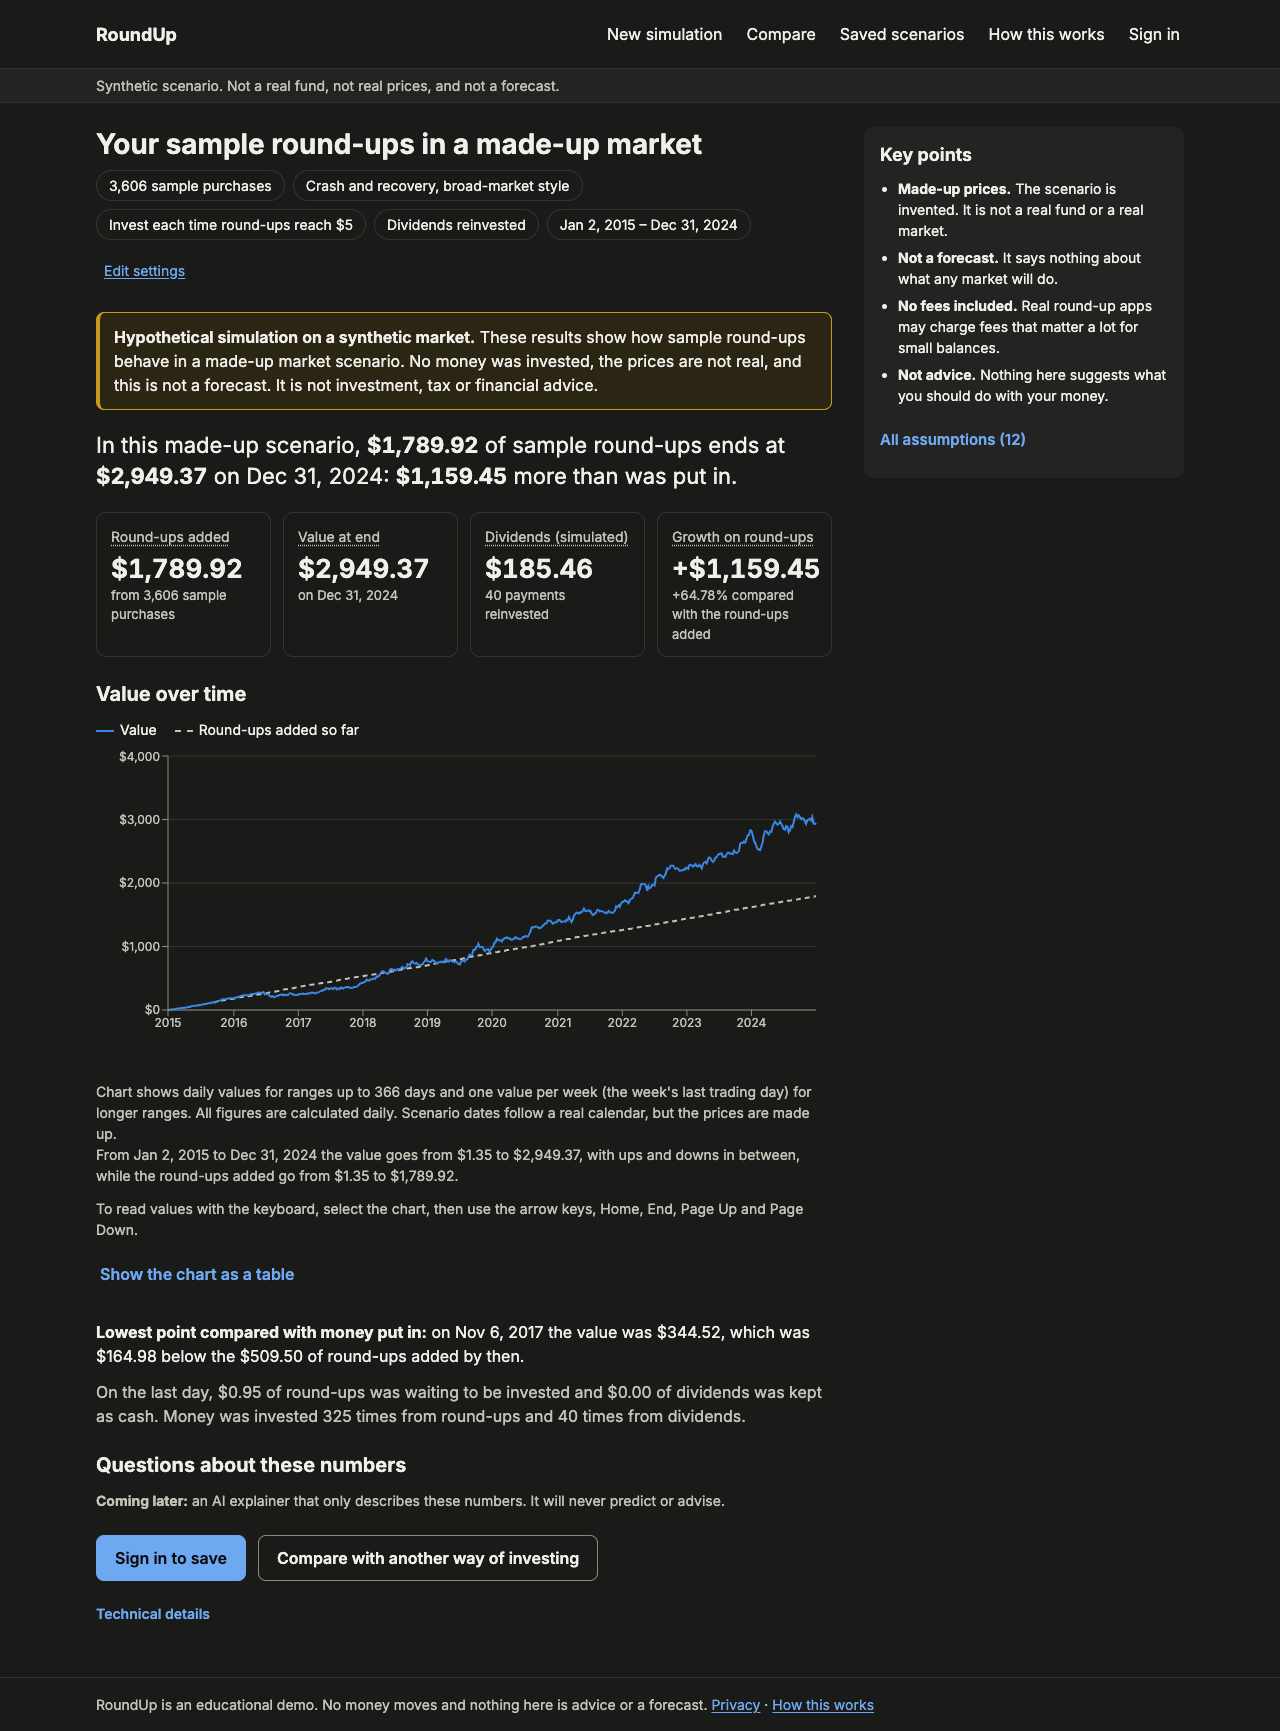
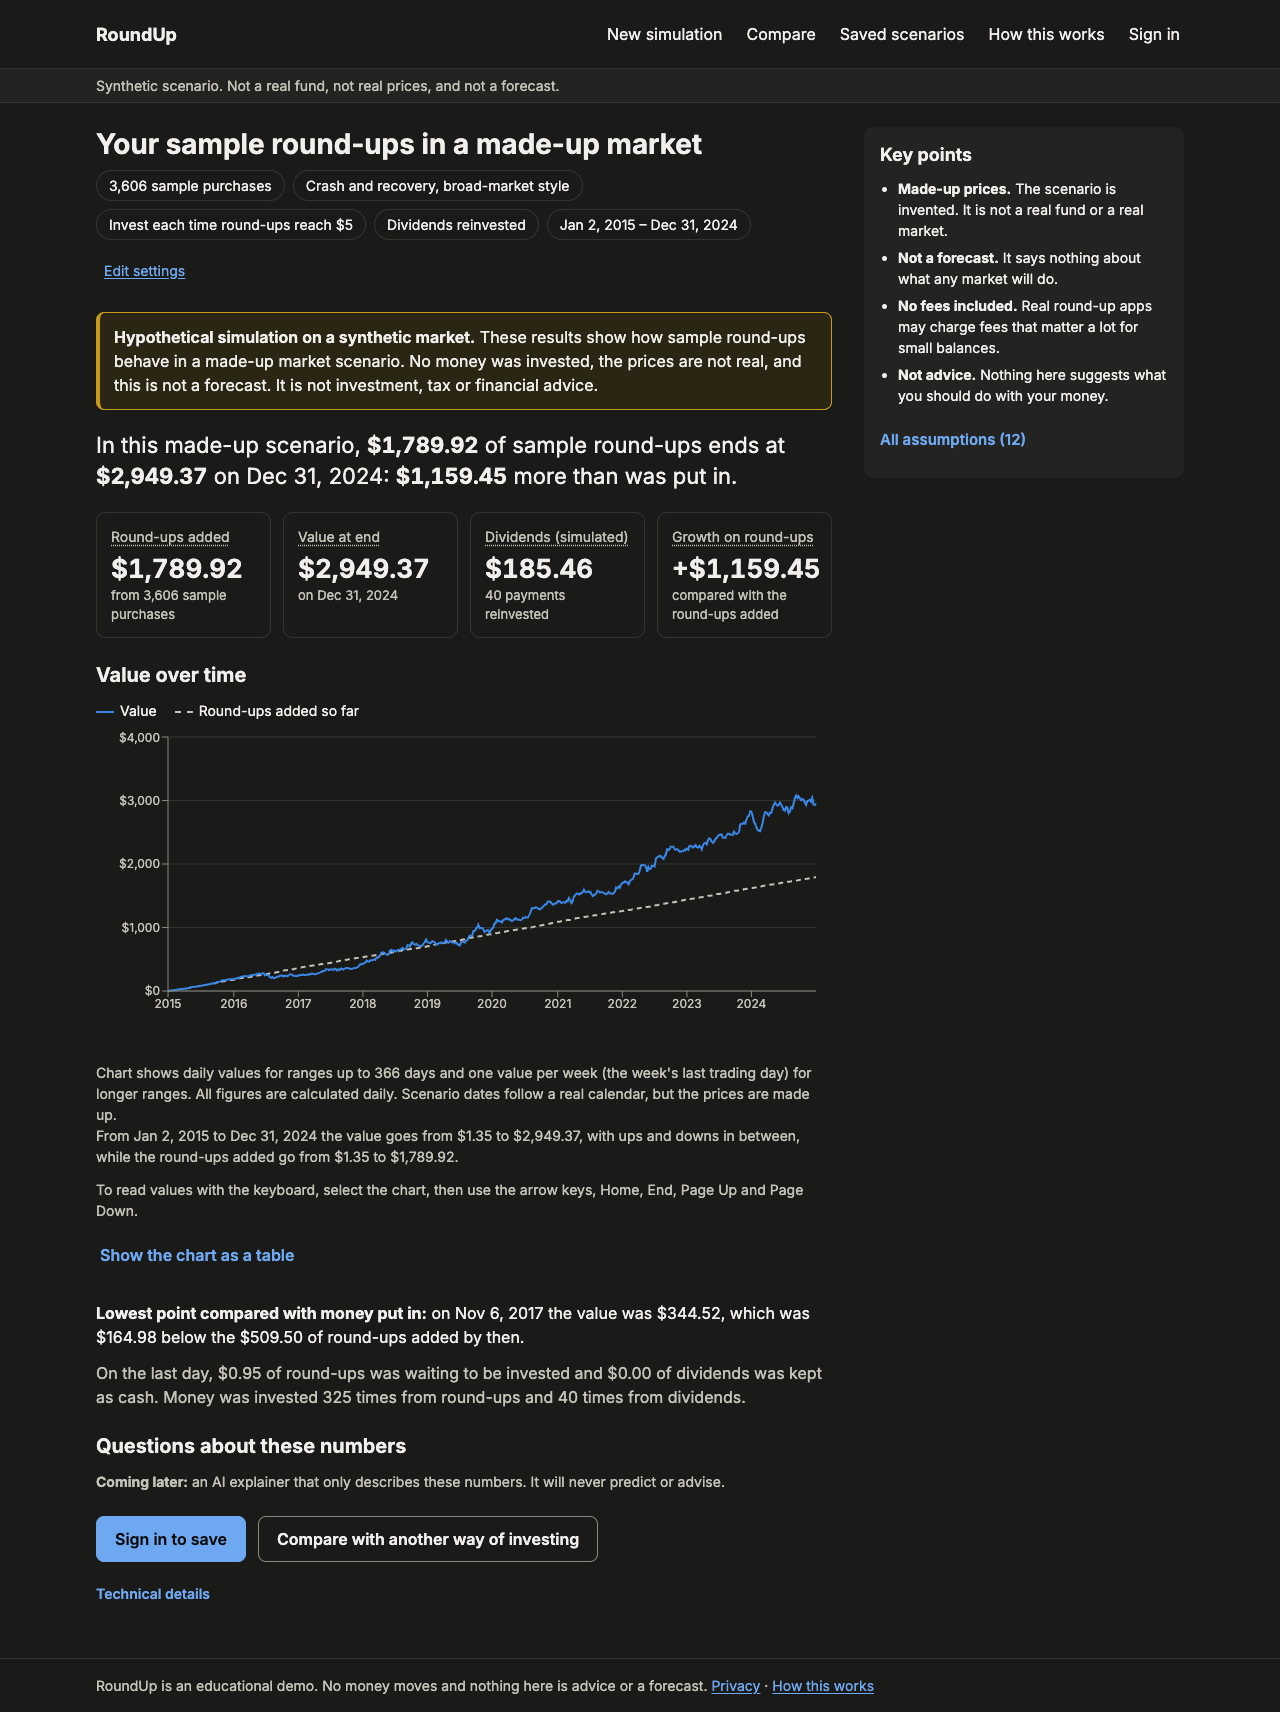
Web: Content-Security-Policy, build-time inlined sign-in mode, deployed-preview test suite
CSP built from the configured API and Supabase addresses (tested); the local-test
sign-in code is dropped from deployed bundles by inlining NEXT_PUBLIC_AUTH_MODE at
build. Separate Playwright config and suite for deployed previews (no sign-in, so
no email): smoke, bundle check, axe in light/dark/mobile, page weight. Screenshots
refreshed (growth tile no longer shows a percentage).

diff --git a/web/e2e-deployed/deployed.spec.ts b/web/e2e-deployed/deployed.spec.ts
@@ -1,0 +1,137 @@
+import fs from "node:fs";
+import os from "node:os";
+import path from "node:path";
+import AxeBuilder from "@axe-core/playwright";
+import { expect, test, type Page } from "@playwright/test";
+
+const WEB = process.env.DEPLOY_WEB!, API = process.env.DEPLOY_API!;
+const report: Record<string, unknown> = {};
+
+async function runSample(page: Page, opts: { start?: string; end?: string } = {}) {
+  await page.goto("/");
+  await page.getByRole("radio", { name: /Crash and recovery/ }).check();
+  if (opts.start) await page.getByLabel("Start date").fill(opts.start);
+  if (opts.end) await page.getByLabel("End date").fill(opts.end);
+  await page.getByRole("button", { name: "Run simulation" }).click();
+  await page.waitForURL("**/results");
+  await page.getByText("In this made-up scenario").waitFor();
+}
+
+test("smoke: simulate, compare, upload a CSV, saved page signed out (no sign-in attempted)", async ({ page }) => {
+  const consoleErrors: string[] = [];
+  page.on("console", (m) => { if (m.type() === "error") consoleErrors.push(m.text()); });
+  await runSample(page);
+  await expect(page.locator(".label-strip")).toContainText("Synthetic scenario. Not a real fund");
+  await expect(page.getByText("Made-up prices.")).toBeVisible();
+  await expect(page.locator(".recharts-wrapper").first()).toBeVisible();
+  await expect(page.locator("body")).not.toContainText(/\d%\s+compared with/);      // owner decision: no percentage
+  await page.getByRole("link", { name: "Compare with another way of investing" }).click();
+  await page.getByRole("button", { name: "Compare" }).click();
+  await expect(page.getByRole("rowheader", { name: "Growth on round-ups" })).toBeVisible();
+
+  const file = path.join(os.tmpdir(), `roundup-deployed-${Date.now()}.csv`);
+  fs.writeFileSync(file, "Date,Amount,Description\n2016-03-01,4.37,SECRET CAFE\n2016-03-02,12.10,BOOKS\n2016-03-03,-20.00,REFUND\n");
+  await page.goto("/");
+  await page.getByRole("radio", { name: /Upload a CSV/ }).check();
+  await page.getByLabel("CSV file (up to 2 MB)").setInputFiles(file);
+  await page.getByLabel("How are amounts signed?").selectOption("debits_positive");
+  await page.getByRole("button", { name: "Check this file" }).click();
+  await expect(page.getByRole("status")).toContainText("3 of 3 rows can be used.");
+  await page.getByLabel("Start date").fill("2016-01-04"); await page.getByLabel("End date").fill("2016-12-30");
+  await page.getByRole("button", { name: "Run simulation" }).click();
+  await page.waitForURL("**/results");
+  await expect(page.locator("#headline")).toContainText("$1.53");
+  await expect(page.locator("body")).not.toContainText("SECRET CAFE");
+  fs.unlinkSync(file);
+
+  await page.goto("/saved");
+  await expect(page.getByRole("heading", { name: "Sign in to see saved scenarios" })).toBeVisible();   // not submitted
+  expect(consoleErrors.filter((e) => !/favicon/i.test(e))).toEqual([]);
+});
+
+test("the deployed build points at the right services (no localhost, no stand-in)", async ({ page }) => {
+  const urls = new Set<string>();
+  page.on("response", (r) => { if (r.url().includes("/_next/static/") && r.url().endsWith(".js")) urls.add(r.url()); });
+  await page.goto("/"); await page.waitForLoadState("networkidle");
+  const js = (await Promise.all([...urls].map(async (u) => (await page.request.get(u)).text()))).join("\n");
+  expect(js).toContain(API);
+  expect(js).not.toContain("127.0.0.1:8000");        // the app's local fallback API address (supabase-js itself mentions localhost)
+  expect(js).not.toContain("NEXT_PUBLIC_AUTH_MODE");
+  expect(js).not.toMatch(/\/standin\/token/);         // the test sign-in stand-in must not be in a deployed build
+  expect(js).toContain("rauwjvyaluuxivnktxtk.supabase.co");
+});
+
+const MODES = {
+  light: { viewport: { width: 1280, height: 900 }, colorScheme: "light" as const },
+  dark: { viewport: { width: 1280, height: 900 }, colorScheme: "dark" as const },
+  mobile: { viewport: { width: 390, height: 844 }, colorScheme: "light" as const, isMobile: true, hasTouch: true, deviceScaleFactor: 2 },
+};
+async function check(page: Page, name: string, mode: string) {
+  await page.waitForLoadState("networkidle");
+  await page.mouse.move(0, 0);
+  const res = await new AxeBuilder({ page }).withTags(["wcag2a", "wcag2aa", "wcag21a", "wcag21aa", "wcag22aa", "best-practice"]).analyze();
+  const v = res.violations.map((x) => ({ id: x.id, impact: x.impact, nodes: x.nodes.length, help: x.help }));
+  report[`${name}/${mode}`] = { violations: v, passes: res.passes.length };
+  await page.screenshot({ path: `screenshots/deployed/${name}-${mode}.png`, fullPage: true });
+  expect(v, `${name}/${mode}`).toEqual([]);
+}
+for (const [mode, opts] of Object.entries(MODES)) {
+  test.describe(mode, () => {
+    test.use(opts);
+    test(`axe on the deployed screens (${mode})`, async ({ page }) => {
+      await page.goto("/"); await check(page, "setup", mode);
+      await runSample(page); await check(page, "results", mode);
+      await page.getByRole("link", { name: "Compare with another way of investing" }).click();
+      await page.getByRole("button", { name: "Compare" }).click();
+      await page.getByRole("rowheader", { name: "Growth on round-ups" }).waitFor();
+      await check(page, "compare", mode);
+      await page.goto("/saved"); await page.getByLabel("Email").waitFor(); await check(page, "saved-signed-out", mode);
+      await page.goto("/how"); await check(page, "how", mode);
+      await page.goto("/privacy"); await check(page, "privacy", mode);
+    });
+  });
+}
+
+test("page weight and response sizes on Vercel", async ({ page, request }) => {
+  const out: Record<string, unknown> = {};
+  const bytes: Record<string, number> = {}; let total = 0; let wire = 0;
+  page.on("response", async (r) => {
+    try {
+      const b = (await r.body()).length; const type = r.request().resourceType();
+      bytes[type] = (bytes[type] ?? 0) + b; total += b; wire += (await r.request().sizes()).responseBodySize;
+    } catch { /* no body */ }
+  });
+  const t0 = Date.now();
+  await page.goto("/", { waitUntil: "networkidle" });
+  out.setup_first_load = { ms: Date.now() - t0, total_bytes: total, transferred_bytes: wire, by_type: { ...bytes } };
+  const full = { scenario_id: "crash-and-recovery", style: "broad", start: "2012-01-03", end: "2026-09-30",
+    generate: { seed: 42, max_per_day: 3 }, strategy: "next_session", reinvest: true };
+  for (const buys of ["none", "all"] as const) {
+    const runs: number[] = []; let size = 0, points = 0;
+    for (let i = 0; i < 5; i++) {
+      const t = Date.now();
+      const r = await request.post(`${API}/v1/simulate`, { data: { ...full, buys } });
+      const body = await r.body(); runs.push(Date.now() - t); size = body.length;
+      points = JSON.parse(body.toString()).result.series.length;
+      expect(r.status()).toBe(200);
+    }
+    out[`api_simulate_full_range_buys_${buys}`] = { bytes: size, ms_each_of_5: runs, series_points: points };
+  }
+  const cruns: number[] = []; let csize = 0;
+  for (let i = 0; i < 5; i++) {
+    const t = Date.now();
+    const rc = await request.post(`${API}/v1/compare`, { data: { ...full, strategy: undefined, reinvest: undefined, buys: "none",
+      a: { strategy: "next_session", reinvest: true }, b: { strategy: "monthly", reinvest: false } } });
+    csize = (await rc.body()).length; cruns.push(Date.now() - t); expect(rc.status()).toBe(200);
+  }
+  out.api_compare_full_range = { bytes: csize, ms_each_of_5: cruns };
+  total = 0; wire = 0; for (const k of Object.keys(bytes)) delete bytes[k];
+  const t1 = Date.now();
+  await runSample(page, { start: "2012-01-03", end: "2026-09-30" });
+  await page.waitForLoadState("networkidle");
+  out.run_full_range_to_results = { ms: Date.now() - t1, total_bytes: total, transferred_bytes: wire, by_type: { ...bytes } };
+  report.perf = out;
+  expect((out.api_simulate_full_range_buys_none as { bytes: number }).bytes).toBeLessThan(250_000);
+});
+
+test.afterAll(() => fs.writeFileSync("screenshots/deployed/deployed-report.json", JSON.stringify(report, null, 1)));

diff --git a/web/tests/security-headers.test.ts b/web/tests/security-headers.test.ts
@@ -1,0 +1,42 @@
+import { describe, expect, test } from "vitest";
+import { contentSecurityPolicy, securityHeaders } from "@/config/headers";
+
+const API = "https://roundup-demo-api-pr.vercel.app", SB = "https://abc123.supabase.co";
+const directive = (csp: string, name: string) => csp.split(";").map((d) => d.trim()).find((d) => d.startsWith(name + " ")) ?? "";
+
+describe("security headers (stage 6: deployed preview had no Content-Security-Policy)", () => {
+  const csp = contentSecurityPolicy({ apiUrl: API, supabaseUrl: SB });
+  test("locks down framing, plugins, base URI and form targets", () => {
+    expect(directive(csp, "frame-ancestors")).toBe("frame-ancestors 'none'");
+    expect(directive(csp, "object-src")).toBe("object-src 'none'");
+    expect(directive(csp, "base-uri")).toBe("base-uri 'self'");
+    expect(directive(csp, "form-action")).toBe("form-action 'self'");
+    expect(directive(csp, "default-src")).toBe("default-src 'self'");
+  });
+  test("the browser may talk only to this site, the API and Supabase", () => {
+    expect(directive(csp, "connect-src")).toBe(`connect-src 'self' ${API} ${SB}`);
+    expect(csp).not.toContain("*");
+    expect(directive(csp, "connect-src")).not.toContain("data:");
+  });
+  test("no remote scripts, no eval; inline allowed only where Next.js and React need it", () => {
+    expect(directive(csp, "script-src")).toBe("script-src 'self' 'unsafe-inline'");
+    expect(csp).not.toContain("unsafe-eval");
+    expect(directive(csp, "img-src")).toBe("img-src 'self' data:");
+  });
+  test("unset addresses add nothing (no empty or wildcard entries)", () => {
+    expect(directive(contentSecurityPolicy({}), "connect-src")).toBe("connect-src 'self'");
+  });
+  test("malformed addresses are reduced to their origin, so a typo cannot widen the policy", () => {
+    const c = contentSecurityPolicy({ apiUrl: `${API}/v1/path?x=1; script-src *`, supabaseUrl: "not a url" });
+    expect(directive(c, "connect-src")).toBe(`connect-src 'self' ${API}`);
+    expect(c).not.toContain("script-src *");
+  });
+  test("the header list carries the policy and the earlier headers", () => {
+    const h = Object.fromEntries(securityHeaders({ apiUrl: API, supabaseUrl: SB }).map((x) => [x.key, x.value]));
+    expect(h["Content-Security-Policy"]).toBe(csp);
+    expect(h["X-Content-Type-Options"]).toBe("nosniff");
+    expect(h["X-Frame-Options"]).toBe("DENY");
+    expect(h["Referrer-Policy"]).toBe("strict-origin-when-cross-origin");
+    expect(h["Permissions-Policy"]).toContain("camera=()");
+  });
+});

diff --git a/web/config/headers.ts b/web/config/headers.ts
@@ -1,0 +1,36 @@
+// Security response headers for the web app (used by next.config.ts, tested in tests/security-headers.test.ts).
+// Next.js and React emit small inline scripts and use inline styles, so script-src and style-src allow
+// 'unsafe-inline'; everything else is closed (no remote scripts, no eval, no framing, only our API and Supabase).
+
+const origin = (url?: string): string | null => {
+  if (!url) return null;
+  try { const u = new URL(url); return u.protocol === "https:" || u.protocol === "http:" ? u.origin : null; } catch { return null; }
+};
+
+export interface Addresses { apiUrl?: string; supabaseUrl?: string }
+
+export function contentSecurityPolicy({ apiUrl, supabaseUrl }: Addresses): string {
+  const connect = ["'self'", origin(apiUrl), origin(supabaseUrl)].filter((x): x is string => Boolean(x));
+  return [
+    "default-src 'self'",
+    "script-src 'self' 'unsafe-inline'",
+    "style-src 'self' 'unsafe-inline'",
+    "img-src 'self' data:",
+    "font-src 'self'",
+    `connect-src ${[...new Set(connect)].join(" ")}`,
+    "frame-ancestors 'none'",
+    "base-uri 'self'",
+    "form-action 'self'",
+    "object-src 'none'",
+  ].join("; ");
+}
+
+export function securityHeaders(a: Addresses): { key: string; value: string }[] {
+  return [
+    { key: "Content-Security-Policy", value: contentSecurityPolicy(a) },
+    { key: "X-Content-Type-Options", value: "nosniff" },
+    { key: "Referrer-Policy", value: "strict-origin-when-cross-origin" },
+    { key: "X-Frame-Options", value: "DENY" },
+    { key: "Permissions-Policy", value: "camera=(), microphone=(), geolocation=()" },
+  ];
+}

diff --git a/web/next.config.ts b/web/next.config.ts
@@ -1,4 +1,5 @@
 import type { NextConfig } from "next";
+import { securityHeaders } from "./config/headers";
 
 // Safety: the test stand-in for sign-in must never reach a Vercel deployment.
 if (process.env.NEXT_PUBLIC_AUTH_MODE === "standin" && (process.env.VERCEL || process.env.VERCEL_ENV)) {
@@ -7,15 +8,14 @@ if (process.env.NEXT_PUBLIC_AUTH_MODE === "standin" && (process.env.VERCEL || pr
 
 const nextConfig: NextConfig = {
   poweredByHeader: false,
+  // Inline the setting at build time ("" when unset), so the local-test sign-in code is removed from deployed
+  // bundles instead of reading an empty browser-side process.env (stage 6: found in the deployed bundle).
+  env: { NEXT_PUBLIC_AUTH_MODE: process.env.NEXT_PUBLIC_AUTH_MODE ?? "" },
   async headers() {
     return [{
       source: "/:path*",
-      headers: [
-        { key: "X-Content-Type-Options", value: "nosniff" },
-        { key: "Referrer-Policy", value: "strict-origin-when-cross-origin" },
-        { key: "X-Frame-Options", value: "DENY" },
-        { key: "Permissions-Policy", value: "camera=(), microphone=(), geolocation=()" },
-      ],
+      headers: securityHeaders({ apiUrl: process.env.NEXT_PUBLIC_API_URL ?? "http://127.0.0.1:8000",
+                                 supabaseUrl: process.env.NEXT_PUBLIC_SUPABASE_URL }),
     }];
   },
 };

diff --git a/web/playwright.deployed.config.ts b/web/playwright.deployed.config.ts
@@ -1,0 +1,16 @@
+import { defineConfig, devices } from "@playwright/test";
+
+// Runs against DEPLOYED previews: no servers are started, no credentials are used, no sign-in is attempted
+// (that would send an email). Usage: DEPLOY_WEB=https://... DEPLOY_API=https://... npx playwright test -c playwright.deployed.config.ts
+const web = process.env.DEPLOY_WEB;
+if (!web || !process.env.DEPLOY_API) throw new Error("Set DEPLOY_WEB and DEPLOY_API to the deployed https addresses.");
+const channel = process.env.PW_CHANNEL ?? (process.env.CI ? undefined : "chrome");
+
+export default defineConfig({
+  testDir: "e2e-deployed",
+  timeout: 90_000,
+  workers: 1,
+  reporter: [["list"]],
+  use: { baseURL: web, trace: "off", ...(channel ? { channel } : {}) },
+  projects: [{ name: "deployed", use: { ...devices["Desktop Chrome"], viewport: { width: 1280, height: 900 }, ...(channel ? { channel } : {}) } }],
+});
